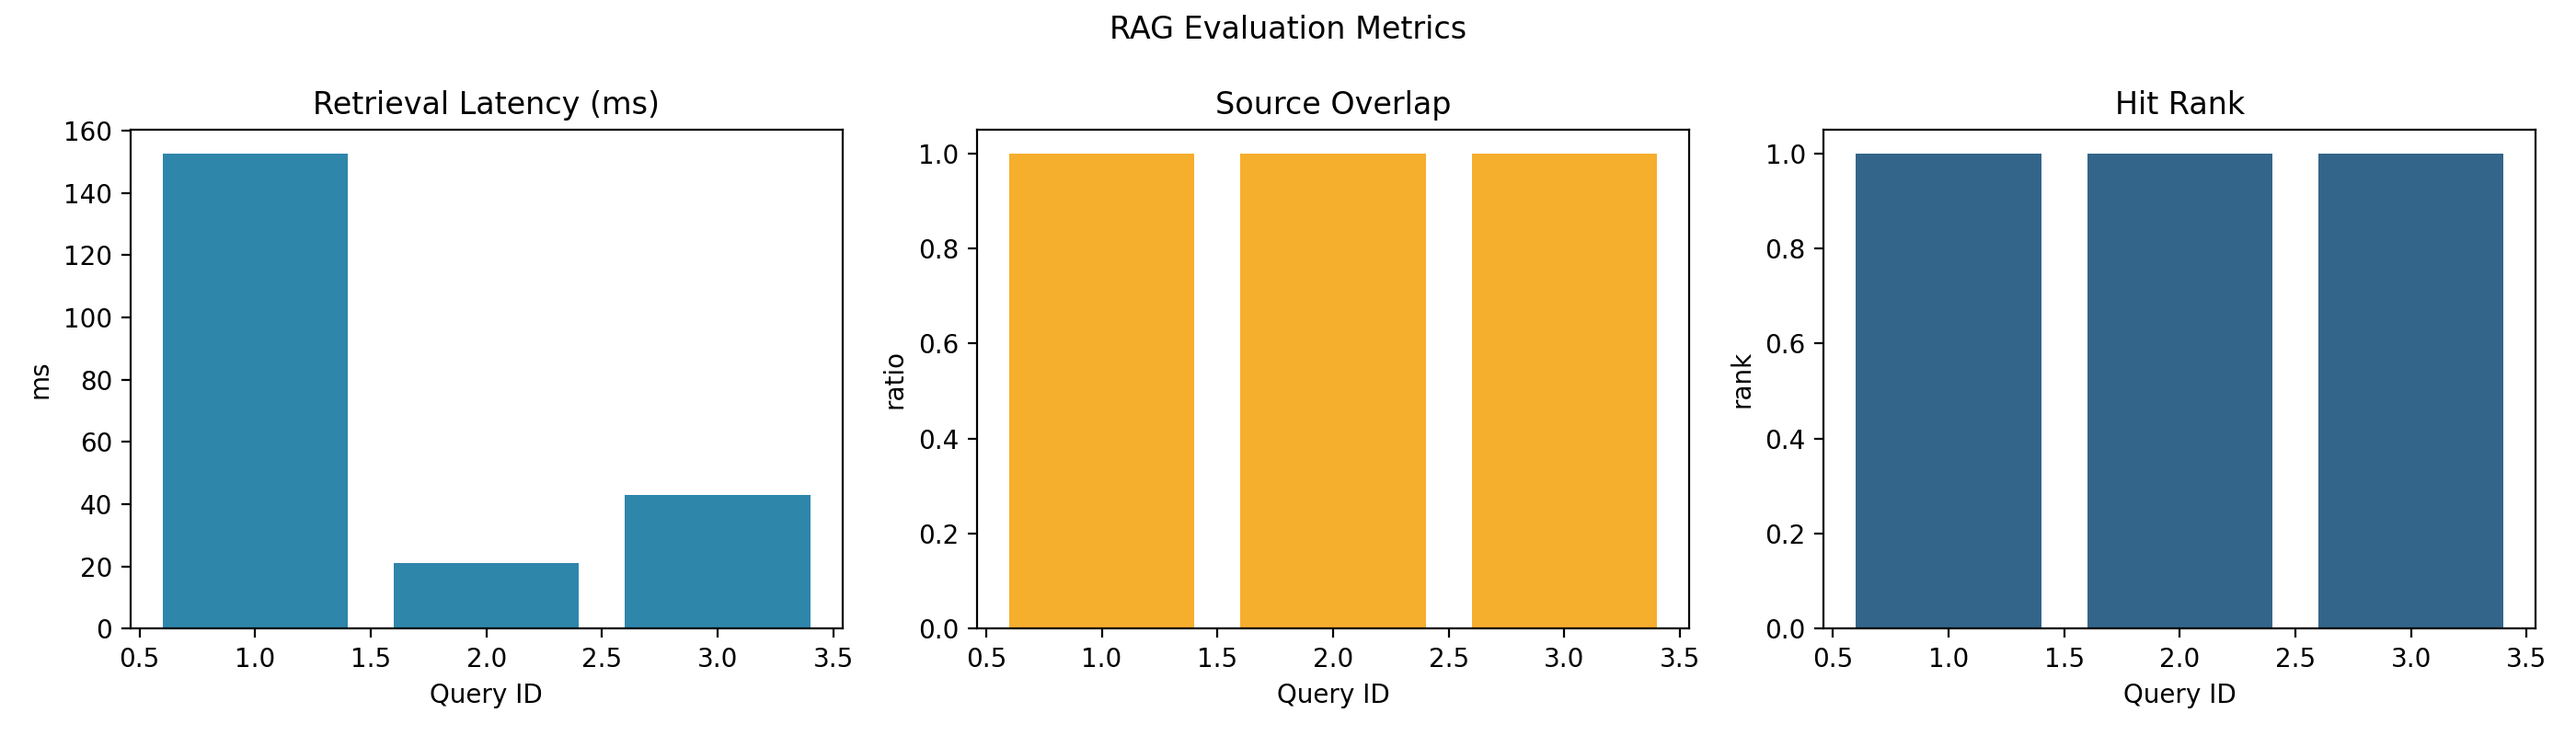
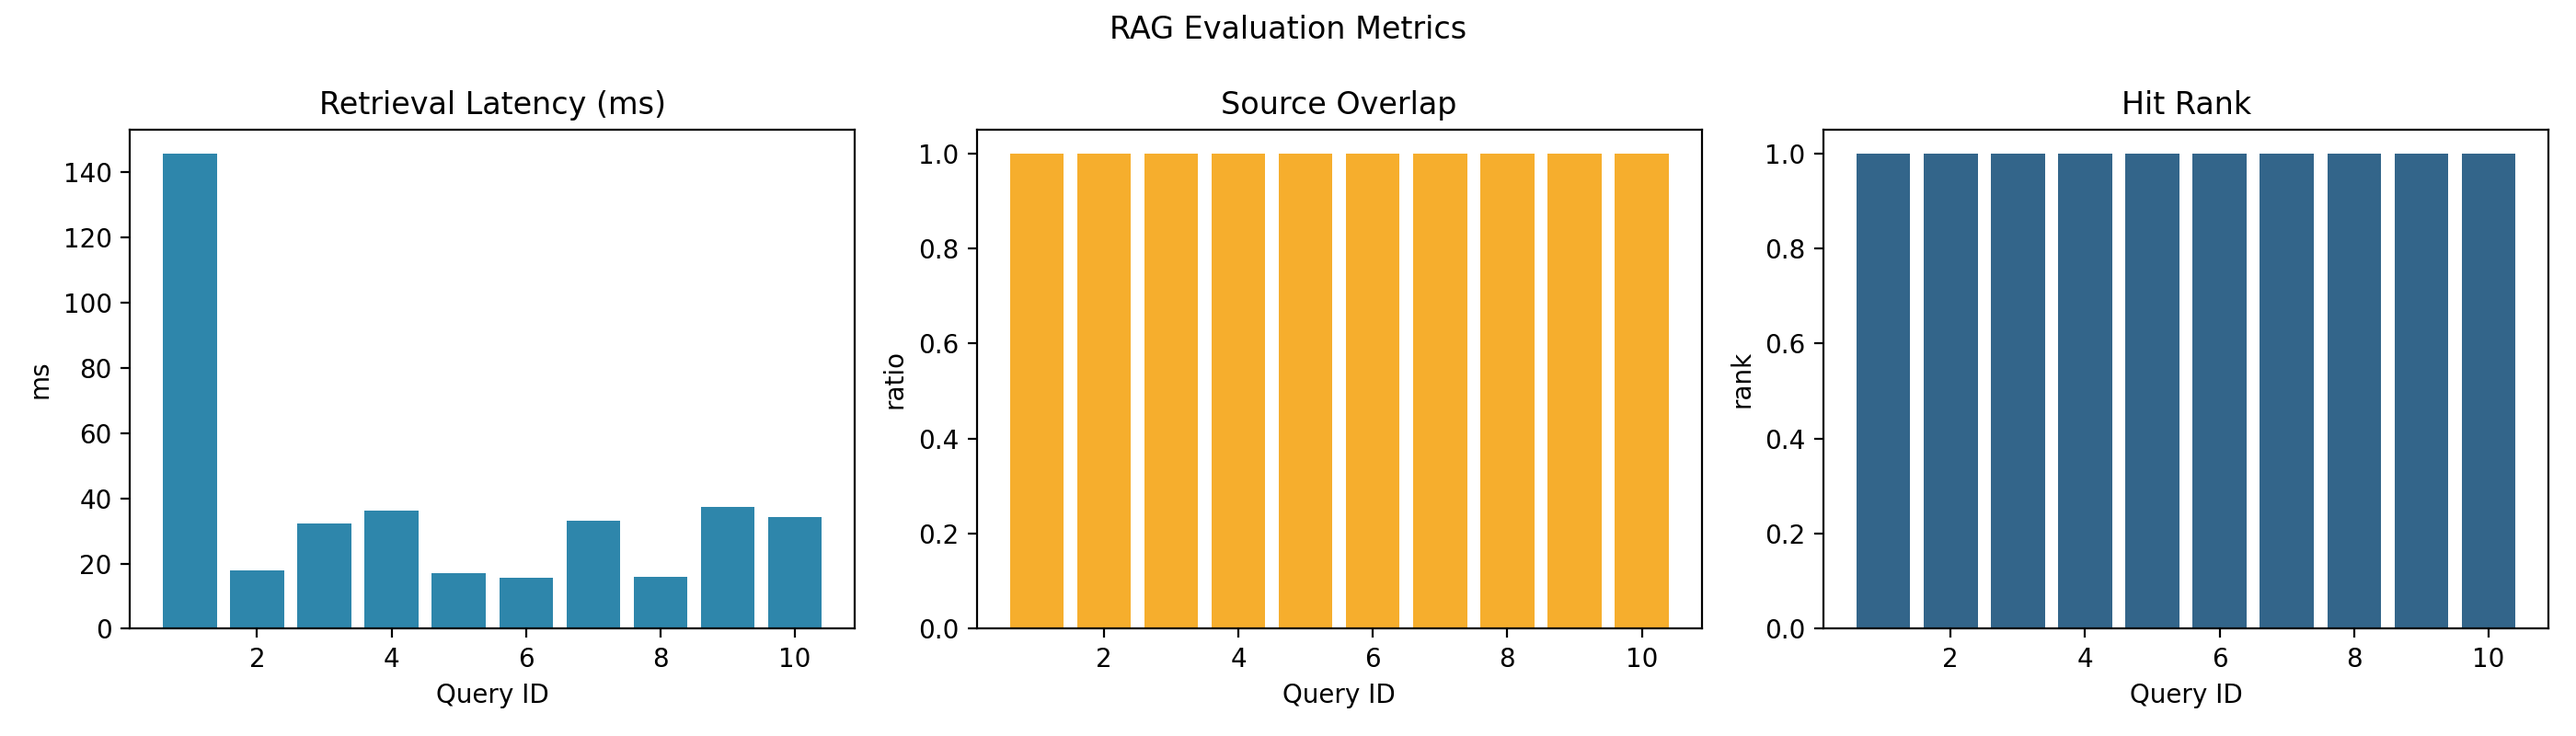
Updating RAG-metrics

diff --git a/scripts/rag_eval.py b/scripts/rag_eval.py
@@ -61,9 +61,9 @@ def _chunk_overlap_ratio(a_tokens: Iterable[str], b_tokens: Iterable[str]) -> fl
     return sum(1 for token in a_list if token in b_set) / len(a_list)
 
 
-def _split_sentences(text: str) -> List[str]:
+def _split_sentences(text: str, min_len: int = 20) -> List[str]:
     sentences = [s.strip() for s in SENTENCE_RE.split(text) if s.strip()]
-    return [s for s in sentences if len(s) >= 40]
+    return [s for s in sentences if len(s) >= min_len]
 
 
 def _load_chunks_from_kb() -> List[Document]:
@@ -97,17 +97,20 @@ def _load_chunks_from_kb() -> List[Document]:
 def _build_dataset(chunks: List[Document], num_queries: int, seed: int) -> List[Tuple[str, str]]:
     """Return list of (query, source_text)."""
     random.seed(seed)
-    candidates = [c for c in chunks if _split_sentences(c.page_content)]
-    if not candidates:
+    pairs: List[Tuple[str, str]] = []
+    for chunk in chunks:
+        sentences = _split_sentences(chunk.page_content)
+        for sentence in sentences:
+            pairs.append((sentence, chunk.page_content))
+
+    if not pairs:
         raise ValueError("No valid chunks found for query generation.")
 
-    selected = random.sample(candidates, k=min(num_queries, len(candidates)))
-    dataset: List[Tuple[str, str]] = []
-    for chunk in selected:
-        sentences = _split_sentences(chunk.page_content)
-        sentence = random.choice(sentences)
-        dataset.append((sentence, chunk.page_content))
-    return dataset
+    if len(pairs) >= num_queries:
+        return random.sample(pairs, k=num_queries)
+
+    # Not enough unique sentences: sample with replacement to reach target size.
+    return [random.choice(pairs) for _ in range(num_queries)]
 
 
 def _get_retriever(vector_store, k: int, fetch_k: int):
